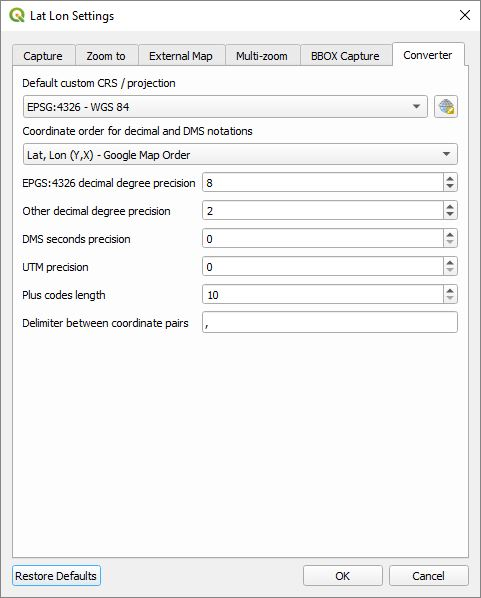
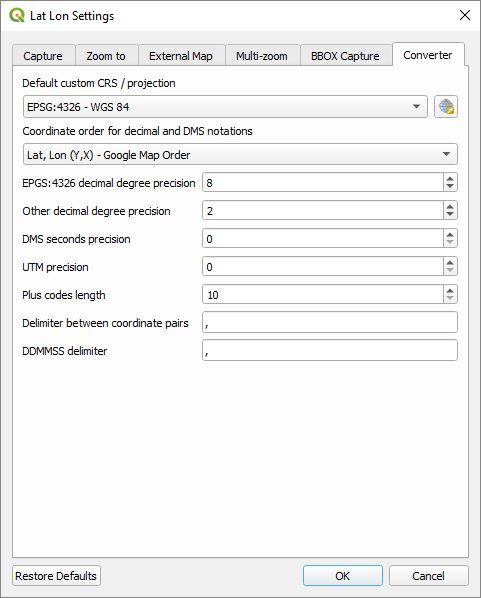
Added DDMMSS coordinate converter delimiter

Changed region(s): [[0.6237, 0.9331, 0.8108, 0.9933], [0.0312, 0.9331, 0.2183, 0.9933], [0.0312, 0.5719, 0.2183, 0.602]]

diff --git a/settings.py b/settings.py
@@ -54,7 +54,8 @@ class Settings():
         self.converterDmsPrec = int(qset.value('/LatLonTools/ConverterDmsPrecision', 0))
         self.converterUtmPrec = int(qset.value('/LatLonTools/ConverterUtmPrecision', 0))
         self.converterPlusCodeLength = int(qset.value('/LatLonTools/ConverterPlusCodeLength', 10))
-        self.converterDelimiter = qset.value('/LatLonTools/ConverterDelimiter', ',')
+        self.converterDelimiter = qset.value('/LatLonTools/ConverterDelimiter', ', ')
+        self.converterDdmmssDelimiter = qset.value('/LatLonTools/ConverterDdmmssDelimiter', ', ')
         
     def googleEarthMapProvider(self):
         if self.mapProvider >= len(mapProviders.MAP_PROVIDERS):
@@ -215,6 +216,7 @@ class SettingsWidget(QDialog, FORM_CLASS):
         self.converterUtmPrecisionSpinBox.setValue(0)
         self.converterPlusCodePrecisionSpinBox.setValue(10)
         self.converterDelimiterLineEdit.setText(',')
+        self.converterDdmmssDelimiterLineEdit.setText(',')
         
     def readSettings(self):
         '''Load the user selected settings. The settings are retained even when
@@ -336,6 +338,7 @@ class SettingsWidget(QDialog, FORM_CLASS):
         qset.setValue('/LatLonTools/ConverterUtmPrecision', int(self.converterUtmPrecisionSpinBox.value()))
         qset.setValue('/LatLonTools/ConverterPlusCodeLength', int(self.converterPlusCodePrecisionSpinBox.value()))
         qset.setValue('/LatLonTools/ConverterDelimiter', self.converterDelimiterLineEdit.text())
+        qset.setValue('/LatLonTools/ConverterDdmmssDelimiter', self.converterDdmmssDelimiterLineEdit.text())
         
         # The values have been read from the widgets and saved to the registry.
         # Now we will read them back to the variables.
@@ -455,6 +458,7 @@ class SettingsWidget(QDialog, FORM_CLASS):
         self.converterUtmPrecisionSpinBox.setValue(settings.converterUtmPrec)
         self.converterPlusCodePrecisionSpinBox.setValue(settings.converterPlusCodeLength)
         self.converterDelimiterLineEdit.setText(settings.converterDelimiter)
+        self.converterDdmmssDelimiterLineEdit.setText(settings.converterDdmmssDelimiter)
         
         self.setEnabled()
         

diff --git a/coordinateConverter.py b/coordinateConverter.py
@@ -202,7 +202,7 @@ class CoordinateConverterWidget(QDialog, FORM_CLASS):
             s = formatDmsString(pt4326.y(), pt4326.x(), True, settings.converterDmsPrec, self.inputXYOrder, settings.converterDelimiter)
             self.dmsLineEdit.setText(s)
         if id != 4: # DDMMSS
-            s = formatDmsString(pt4326.y(), pt4326.x(), False, settings.converterDmsPrec, self.inputXYOrder, settings.converterDelimiter)
+            s = formatDmsString(pt4326.y(), pt4326.x(), False, settings.converterDmsPrec, self.inputXYOrder, settings.converterDdmmssDelimiter)
             self.ddmmssLineEdit.setText(s)
         if id != 5: # UTM
             s = latLon2UtmString(pt4326.y(), pt4326.x(), settings.converterUtmPrec)

diff --git a/readme.md b/readme.md
@@ -291,3 +291,4 @@ These are the default settings for the ***Coordinate Conversion*** dialog box.
 * ***UTM precision*** specifies the number of decimal digits for a UTM formatted coordinate.
 * ***Plus codes length*** is the number of digits in a plus code coordinate.
 * ***Delimiter between coordinate pairs*** is the delimiter used between coordinate pairs for those representations that require a delimiter.
+* ***DDMMSS delimiter*** is the delimiter used between DDMMSS coordinate pairs. Leave this blank if no space is desired between coordinates. The default is ", ".
